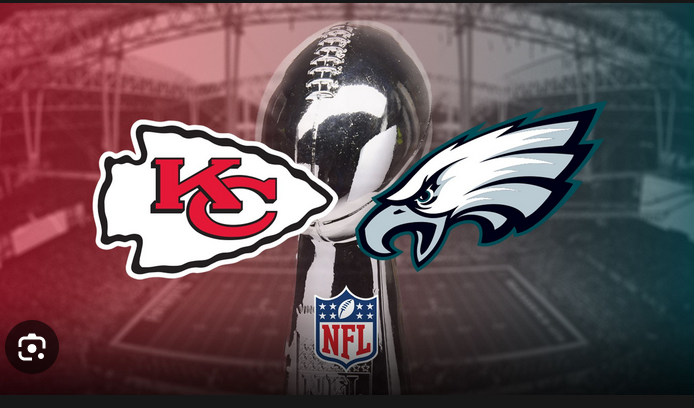
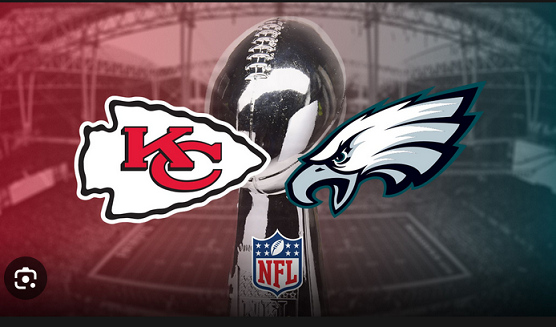
Final design of the card

diff --git a/lib/widgets/suggestion_card.dart b/lib/widgets/suggestion_card.dart
@@ -6,22 +6,20 @@ class SuggestionCard extends StatelessWidget {
   @override
   Widget build(BuildContext context) {
     return Row(
-      mainAxisAlignment: MainAxisAlignment.start,
+      mainAxisAlignment: MainAxisAlignment.center,
       children: [
-        ClipRRect(
-          borderRadius: BorderRadius.circular(30),
-          child: const Image(
-              image: AssetImage('assets/images/sb57_kc_phi_120223.png'),
-              height: 350.0,
-              width: 350.0,
-            ),
-        ),
+         ClipRRect(
+            borderRadius: BorderRadius.circular(40),
+            child: const Image(
+                image: AssetImage('assets/images/sb57_kc_phi_120223.png'),
+              ),
+          ),
         const SizedBox (width: 20.0,),
         Column(
           children: [
             SizedBox(
               width: 300,
-              height: 100,
+              height: 50,
               child: Text(
                 'Super Bowl LVII', 
                 style: Theme.of(context).textTheme.headlineLarge,
@@ -31,6 +29,22 @@ class SuggestionCard extends StatelessWidget {
               width: 300,
               height: 100,
               child: Text("Después de una desventaja de doble dígito, los Chiefs regresan para arrebatarle el triunfo a Philadelphia y obtener su tercer Lombardi",
+                    style: Theme.of(context).textTheme.bodyMedium,
+                    textAlign: TextAlign.justify,
+              ),
+            ),
+            SizedBox(
+              width: 300,
+              height: 50,
+              child: Text("Fecha: 12/02/2023",
+                    style: Theme.of(context).textTheme.bodyMedium,
+                    textAlign: TextAlign.justify,
+              ),
+            ),
+                        SizedBox(
+              width: 300,
+              height: 50,
+              child: Text("Duración: 14:56",
                     style: Theme.of(context).textTheme.bodyMedium,
                     textAlign: TextAlign.justify,
               ),

diff --git a/lib/main.dart b/lib/main.dart
@@ -45,8 +45,8 @@ class _MyHomePageState extends State<MyHomePage> {
           ),
           textTheme:
             const TextTheme(   //0x89baf3
-              headlineLarge: TextStyle(color: Colors.white, fontSize:24, fontWeight: FontWeight.bold, fontFamily: 'Helvetica'),
-              headlineSmall: TextStyle(color: Colors.white, fontSize: 18, fontWeight: FontWeight.bold),   
+              headlineLarge: TextStyle(color: Colors.white, fontSize:32, fontWeight: FontWeight.bold, fontFamily: 'Tahoma'),
+              headlineMedium: TextStyle(color: Colors.white, fontSize: 20, fontWeight: FontWeight.bold),   
               bodyMedium: TextStyle(color: Colors.white, fontSize:14,  fontWeight: FontWeight.bold),
               bodySmall: TextStyle(color: Colors.white, fontSize: 12, fontWeight: FontWeight.bold),
             ),

diff --git a/lib/screens/start_screen.dart b/lib/screens/start_screen.dart
@@ -24,14 +24,17 @@ class _StartScreenState extends State<StartScreen> {
           style: Theme.of(context).textTheme.headlineLarge,
           ),
       ),
-      body: const Center(
+      body:  Center(
         child: Column(
           mainAxisAlignment: MainAxisAlignment.center,
+          crossAxisAlignment: CrossAxisAlignment.start,
           children: <Widget>[
              Text(
-              'Carrusel de recomendaciones',
+              'Recomendado para ti',
+              style: Theme.of(context).textTheme.headlineLarge,
             ),
-            SuggestionCard(),
+            const SizedBox(height: 20,),
+            const SuggestionCard(),
           ],
         ),
       ), 
